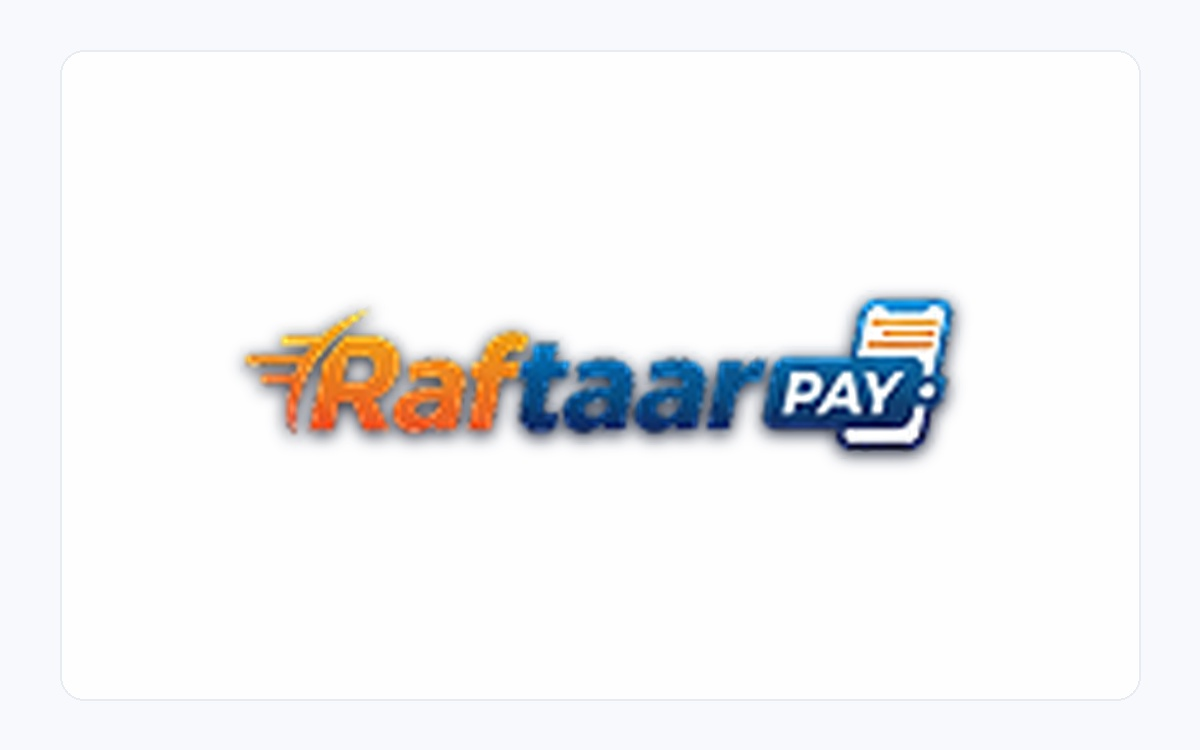
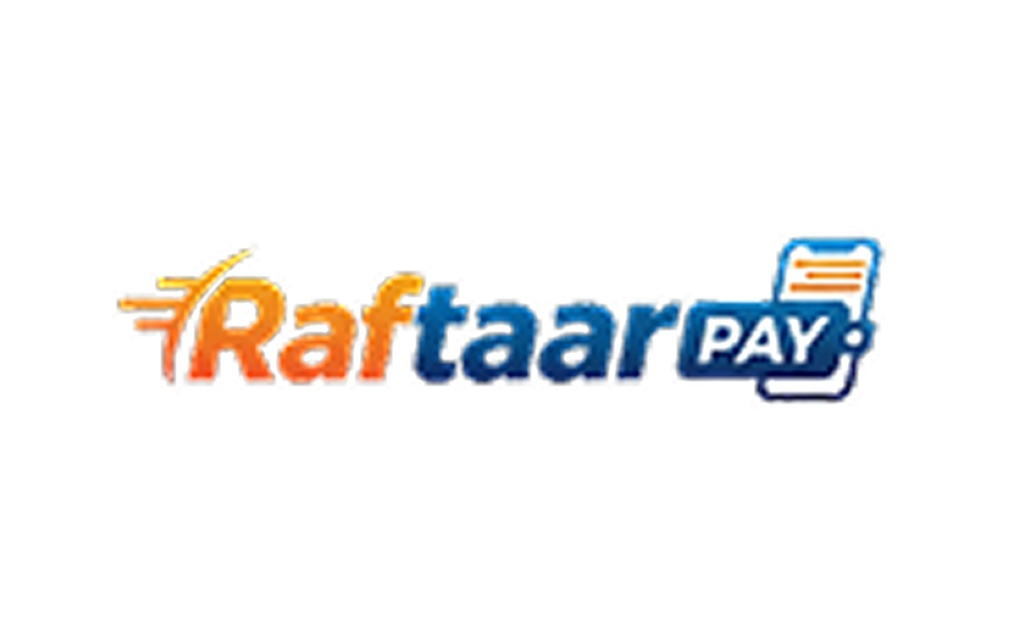
feat(projects): update project thumbnails for Revo6, STT Pay Tech, Rewad, Raftaar Pay, and Smart Biz Care

Changed region(s): [[0.0938, 0.3438, 0.875, 0.6562]]

diff --git a/index.html b/index.html
@@ -457,7 +457,7 @@
                       <h3 class="title-lg"><a href="work.html#raftaarpay">Raftaar Pay Multi-Currency</a></h3>
                       <p class="text-sm text-capitalize" style="color:var(--text-quaternary);">UPI &amp; Merchant Soundbox</p>
                     </div>
-                    <div class="case-study-hover d-none d-md-block" style="background-image:url('assets/img/projects/raftaarpay.jpg?v=2');" role="img" aria-label="Raftaar Pay UPI soundbox and payment dashboard preview"></div>
+                    <div class="case-study-hover d-none d-md-block" style="background-image:url('assets/img/projects/raftaarpay.jpg?v=3');" role="img" aria-label="Raftaar Pay UPI soundbox and payment dashboard preview"></div>
                   </article>
 
                   <!-- Project 4 -->
@@ -522,7 +522,7 @@
                       <h3 class="title-lg"><a href="work.html#sttpaytech">STT PayTech Gateway Console</a></h3>
                       <p class="text-sm text-capitalize" style="color:var(--text-quaternary);">POS Terminal &amp; Switch</p>
                     </div>
-                    <div class="case-study-hover d-none d-md-block" style="background-image:url('assets/img/projects/sttpaytech.jpg');" role="img" aria-label="STT PayTech payment switch and POS device management dashboard preview"></div>
+                    <div class="case-study-hover d-none d-md-block" style="background-image:url('assets/img/projects/sttpaytech.jpg?v=2');" role="img" aria-label="STT PayTech payment switch and POS device management dashboard preview"></div>
                   </article>
                 </div>
               </section>

diff --git a/js/gallery-3d.js b/js/gallery-3d.js
@@ -33,7 +33,7 @@ export function renderSelectedWork(containerId = 'work-gallery-container') {
         <!-- Project Thumbnail Image Container -->
         <div class="project-card-thumb">
           <div class="project-card-thumb-inner">
-            <img src="${project.image}?v=4" alt="${project.name} - ${project.categoryLabel || project.category} UX/UI &amp; Product Design by Sakthi Niranjana" class="project-card-img" loading="lazy" onerror="this.onerror=null; this.src='assets/img/projects/figmaprojects.jpg';">
+            <img src="${project.image}?v=5" alt="${project.name} - ${project.categoryLabel || project.category} UX/UI &amp; Product Design by Sakthi Niranjana" class="project-card-img" loading="lazy" onerror="this.onerror=null; this.src='assets/img/projects/figmaprojects.jpg';">
             <div class="project-card-overlay">
               <span class="view-specs-badge"><i class="fa-solid fa-expand"></i> VIEW SPECS</span>
             </div>
